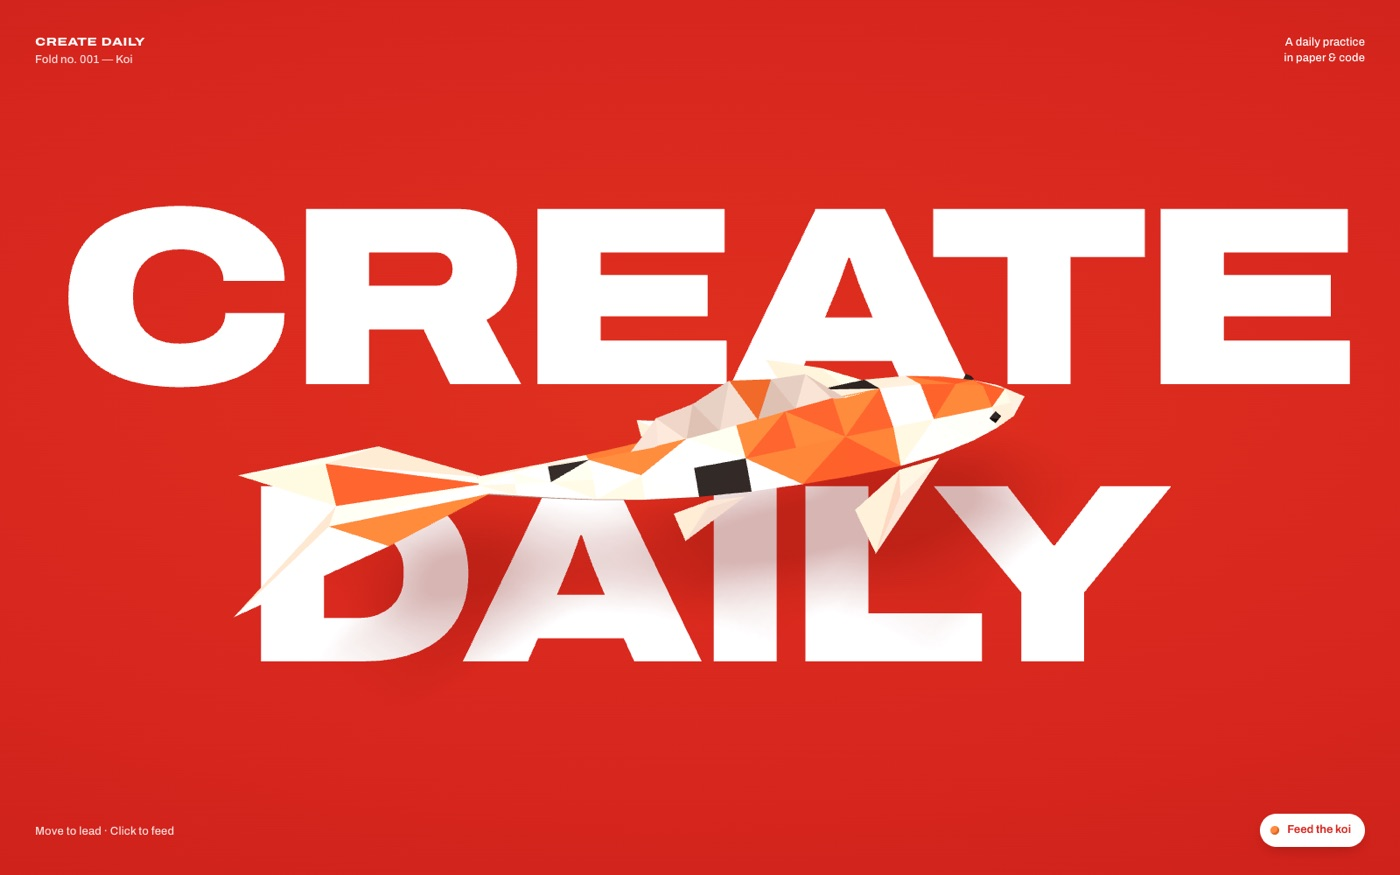
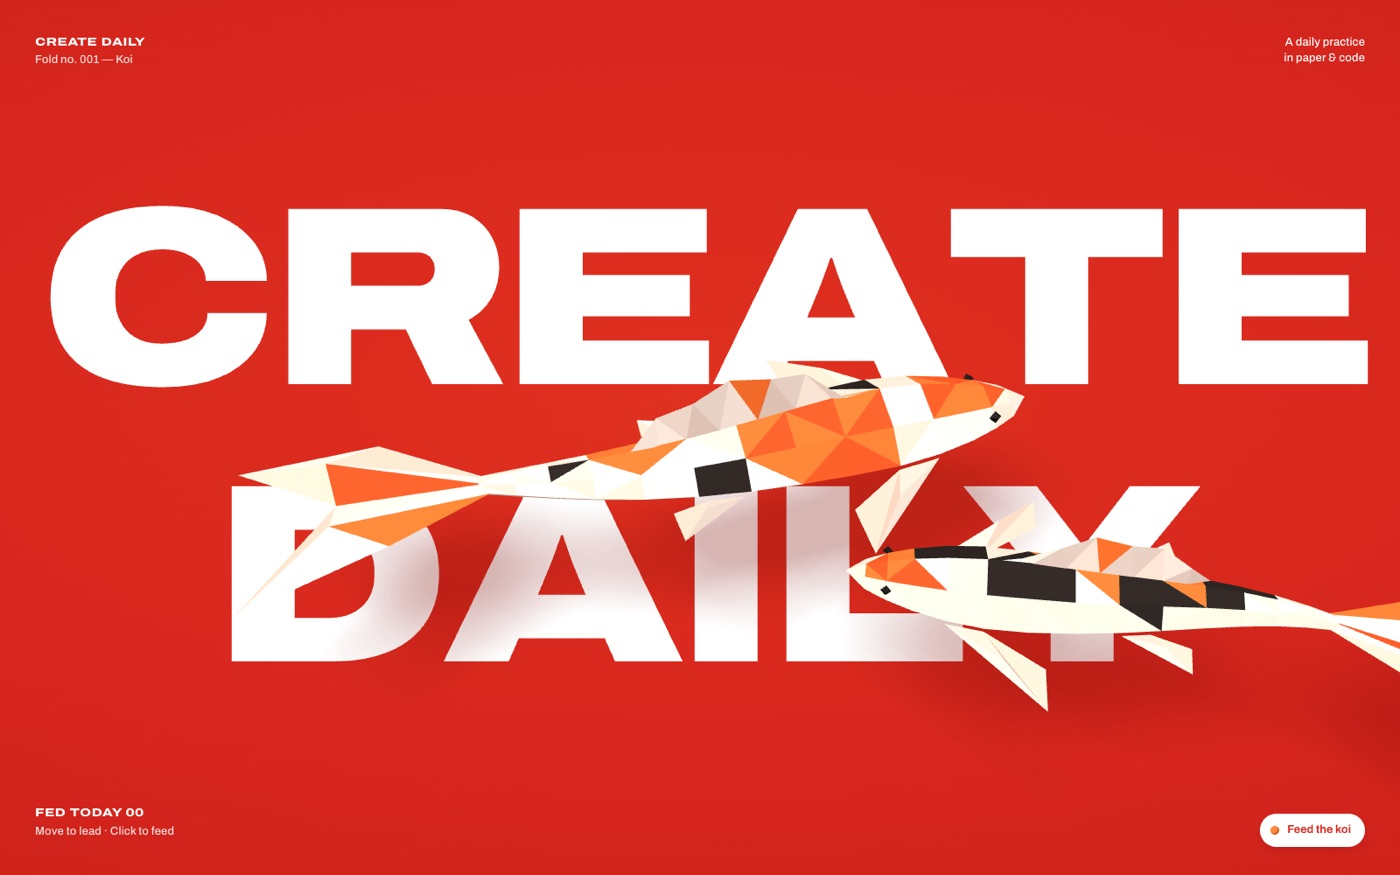
Update the Create Daily card for the two-koi version
New thumbnail with both koi, and copy covering the unfolding intro, the
showa companion that competes for food, and the lighter phone render.

diff --git a/src/Work.tsx b/src/Work.tsx
@@ -56,13 +56,13 @@ const projects = [
   {
     name: 'Create Daily', tag: 'The Paper Koi', metric: '0', metricLabel: '3D models downloaded',
     colors: ['#e5392b', '#a3170f'],
-    summary: 'A procedurally folded origami koi that swims across a red page, follows your cursor, and swims over to eat the food you drop.',
+    summary: 'Two procedurally folded origami koi on a red page. The lead unfolds from a flat sheet, follows your cursor, and races its companion to the food you drop.',
     stack: ['TypeScript', 'Three.js', 'Vite', 'GitHub Actions'],
-    image: 'create-daily.jpg', alt: 'Create Daily: a faceted origami koi swimming across giant white CREATE DAILY type on a red page',
-    proof: [['0', 'downloaded models or textures; every fold is generated in code'], ['~720', 'lines of TypeScript and Three.js']],
+    image: 'create-daily.jpg', alt: 'Create Daily: two faceted origami koi, one kohaku and one showa, swimming across giant white CREATE DAILY type on a red page',
+    proof: [['0', 'downloaded models or textures; every fold is generated in code'], ['~930', 'lines of TypeScript and Three.js']],
     repo: 'create-daily', demo: 'https://saisumedh18.github.io/create-daily/',
-    demoNote: 'Move to lead the koi, click to feed it. Works with touch.',
-    notes: 'The body is built from rings with a faceted diamond cross-section, coloured face by face like folded paper. A travelling sine wave bends it as it swims, its tail beats faster at speed, and it steers toward your pointer or the nearest pellet. Reduced-motion settings get a slow, still drift.',
+    demoNote: 'Move to lead the koi, click to feed them. Works with touch.',
+    notes: 'Each body is built from rings with a faceted diamond cross-section, coloured face by face like folded paper. The page opens with the koi folding up out of a flat sheet. A travelling sine wave bends each fish as it swims, its tail beats faster at speed, and a smaller showa trails the lead, keeps its distance and competes for food. Phones get a lighter render, and reduced-motion settings get a slow, still drift.',
     method: 'A creative coding study, separate from the engineering projects above.',
   },
 ]
